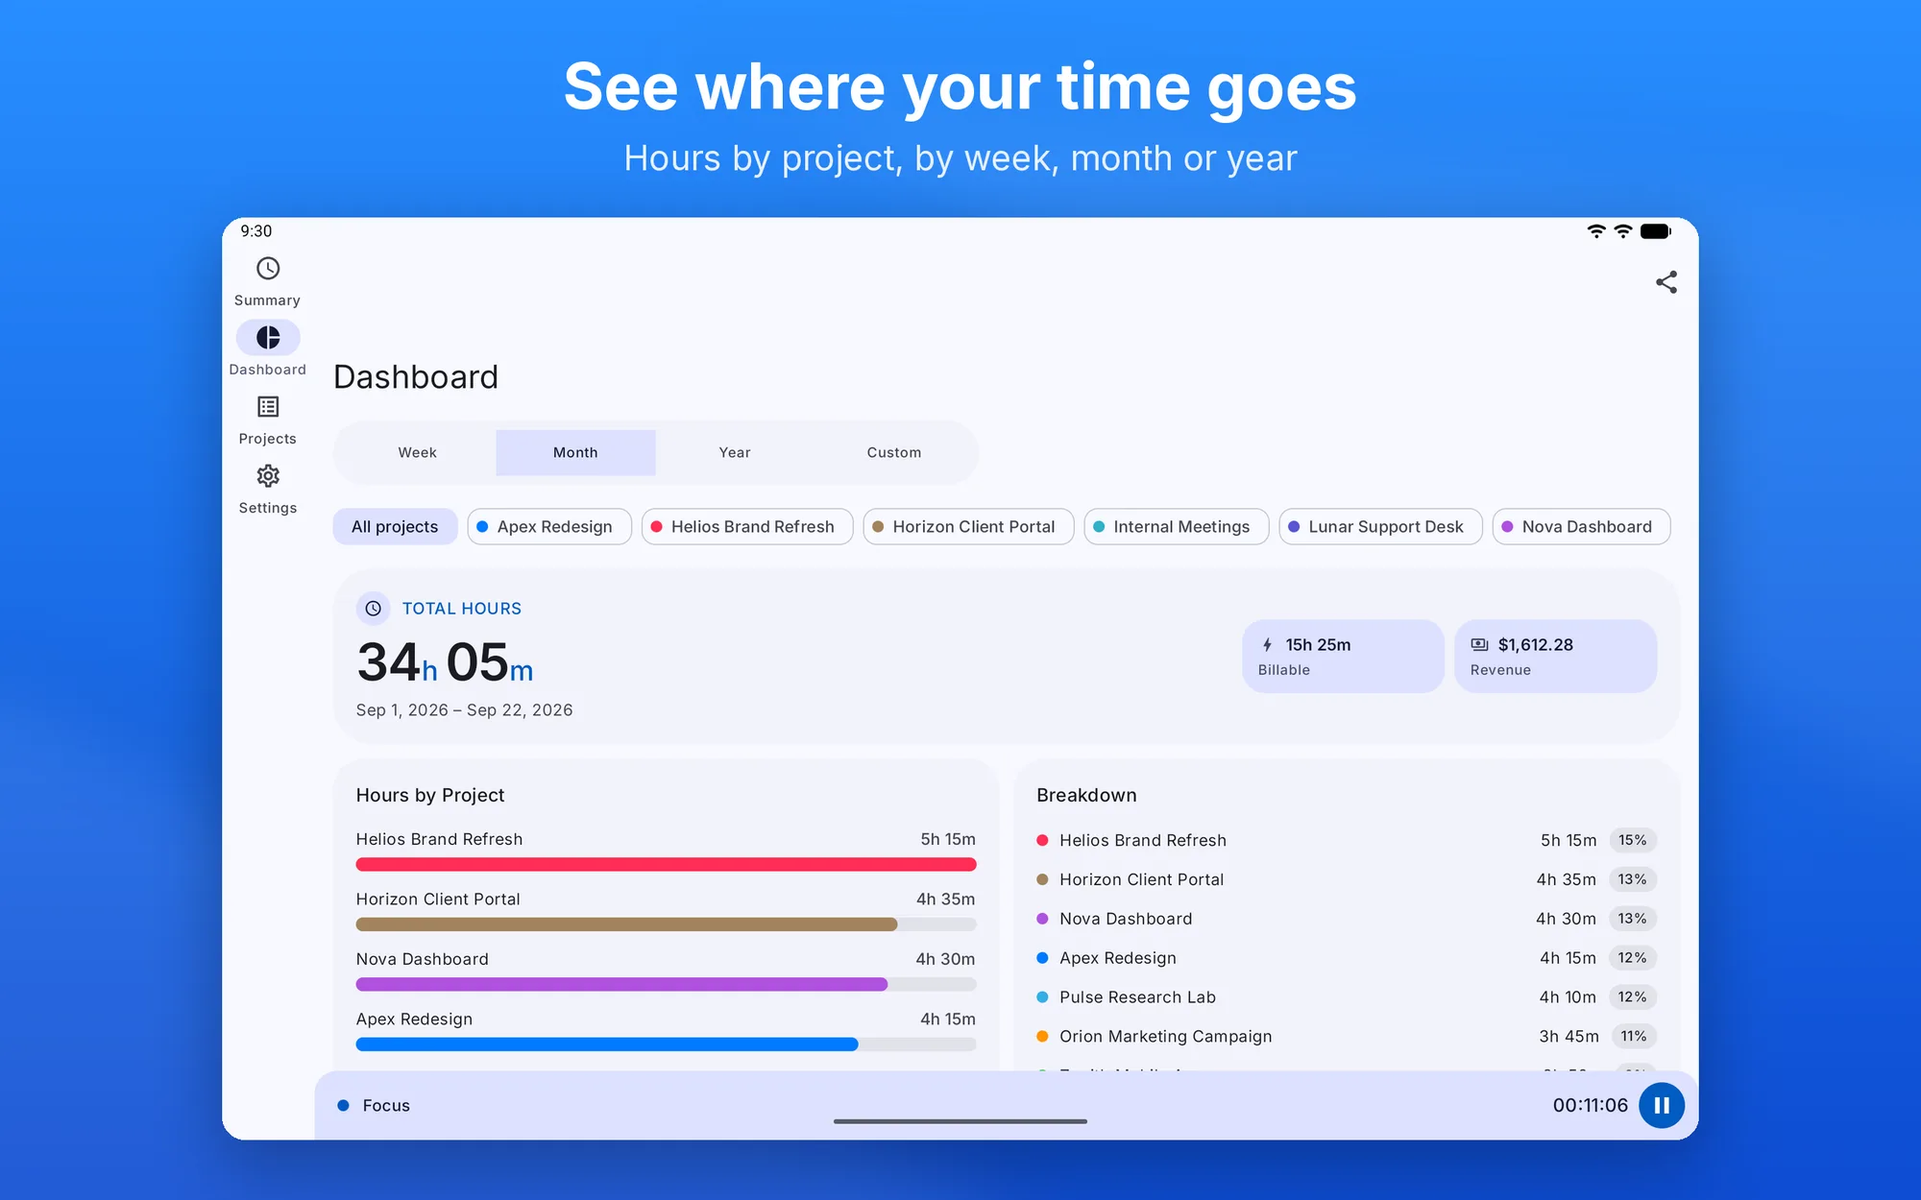
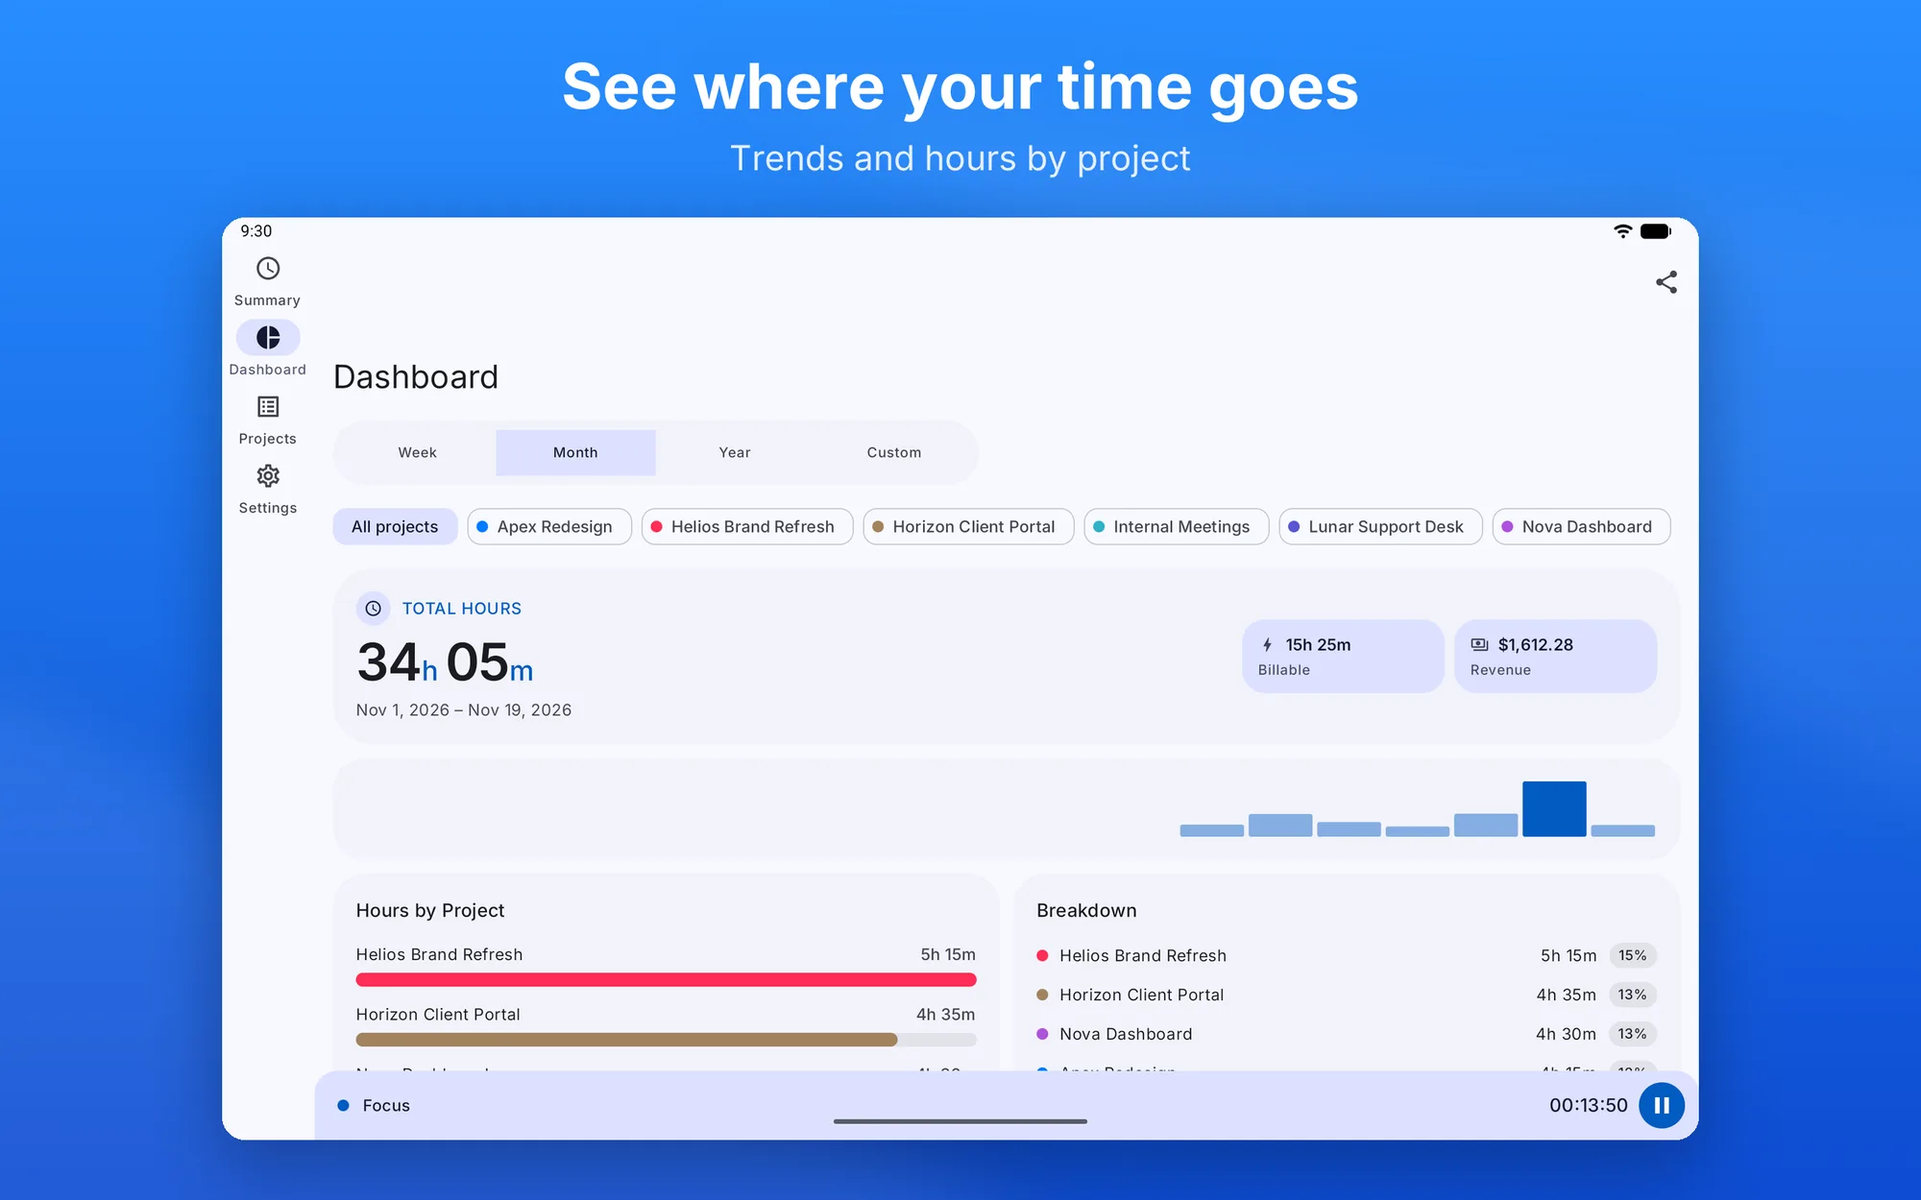
fix(time-tracker): funzioni della 1.3.0 anche su Android 2.1.0
Le funzioni segnate come solo iOS sono anche nella 2.1.0 per Android:
tolte le diciture e le righe Sì/No del confronto. Unica differenza
rimasta, la durata del ciclo del Pomodoro a scelta su Android (da 15 a
90 minuti). Nuovi screenshot Android per telefono e tablet e didascalie
aggiornate.

diff --git a/src/data/docs/time-tracker/timer-pomodoro-e-attivita.md b/src/data/docs/time-tracker/timer-pomodoro-e-attivita.md
@@ -14,8 +14,8 @@ Il pannello **Pomodoro** di Time Tracker è un cronometro per le sessioni di lav
 - **Avvio, pausa e stop**: avvia il cronometro, mettilo in pausa quando serve e fermalo a fine sessione.
 - **Ancorato all'orologio di sistema**: il tempo trascorso non dipende da un conteggio in memoria ma dall'istante di avvio salvato, quindi resta corretto anche se l'app viene sospesa o chiusa.
 - **Salvataggio come attività**: quando fermi il timer, la sessione viene registrata come attività del progetto scelto, con il nome dell'attività come titolo. Le sessioni sotto il minuto non vengono salvate.
-- **Anello del ciclo** (iOS): un anello nel colore del progetto si riempie verso la fine di ogni ciclo da 25 minuti, e sotto il tempo compare il ciclo in corso con quanto manca (es. *Pomodoro 1 · mancano 06:31*). Il timer resta un cronometro: registra tutto il tempo trascorso, i cicli servono solo da traguardo.
-- **Annulla** (iOS): dopo lo stop il pannello mostra *Salvata in* e il nome del progetto, con il pulsante **Annulla**, che elimina l'attività appena salvata.
+- **Anello del ciclo**: un anello nel colore del progetto si riempie verso la fine di ogni ciclo, e sotto il tempo compare il ciclo in corso con quanto manca (es. *Pomodoro 1 · mancano 06:31*). Il timer resta un cronometro: registra tutto il tempo trascorso, i cicli servono solo da traguardo. Il ciclo dura 25 minuti; su Android puoi cambiarlo nelle Impostazioni, alla voce **Durata del Pomodoro**: 15, 20, 25, 30, 45, 50, 60 o 90 minuti.
+- **Annulla**: dopo lo stop il pannello mostra *Salvata in* e il nome del progetto, con il pulsante **Annulla**, che elimina l'attività appena salvata.
 
 ---
 
@@ -36,22 +36,22 @@ Per le ore registrate a posteriori apri l'editor dell'attività e indica:
 - **titolo**, **progetto** e **note**;
 - la **data** e l'**orario di inizio e fine**, oppure attiva il **totale giornaliero** e scrivi direttamente la durata.
 
-Su iOS la nuova attività parte dal progetto dell'ultima attività registrata, se è ancora attivo; altrimenti dal primo progetto attivo.
+La nuova attività parte dal progetto dell'ultima attività registrata, se è ancora attivo; altrimenti dal primo progetto attivo.
 
 Su Android, in cima al riepilogo c'è anche un'**aggiunta rapida** con solo titolo e progetto.
 
 ---
 
-## Riprendere e duplicare un'attività (iOS)
+## Riprendere e duplicare un'attività
 
 Nell'elenco **Attività**:
-- scorrendo una riga verso destra compaiono **Riprendi** e **Modifica**; con uno scorrimento completo parte subito **Riprendi**, che avvia il timer con titolo e progetto dell'attività e apre il pannello Pomodoro. Se un timer è già in corso, Riprendi non c'è;
+- scorrendo una riga verso destra compaiono **Riprendi** e **Modifica**; con uno scorrimento completo parte subito **Riprendi**, che avvia il timer con titolo e progetto dell'attività e apre il pannello Pomodoro. Se un timer è già in corso, Riprendi non c'è (su Android lo scorrimento apre allora la modifica);
 - tenendo premuta una riga si apre un menu con **Modifica**, **Riprendi**, **Duplica su oggi** ed **Elimina**. *Duplica su oggi* crea una copia con lo stesso orario e la stessa durata sulla data di oggi;
-- scorrendo verso sinistra c'è **Elimina**.
+- scorrendo verso sinistra c'è **Elimina**; su Android l'eliminazione si annulla dalla barra in basso.
 
 ---
 
-## Ricerca e calendario attività (iOS)
+## Ricerca e calendario attività
 
 - **Ricerca**: il campo *Cerca tra le voci* cerca il testo in titolo, note e nome del progetto. Mentre cerchi, l'app propone i progetti attivi come filtri: sceglierne uno o più mostra solo le loro attività.
 - **Calendario attività**: in cima all'elenco, un anno di lavoro in una griglia con un quadrato per giorno, più scuro quando le ore sono di più. Toccando un giorno compaiono la data, le ore e il numero di attività; **Mostra** lascia nell'elenco solo quel giorno, e **Mostra tutti i giorni** toglie il filtro.

diff --git a/src/data/en/docs/time-tracker/pomodoro-timer-and-activities.md b/src/data/en/docs/time-tracker/pomodoro-timer-and-activities.md
@@ -14,8 +14,8 @@ Time Tracker's **Pomodoro** panel is a stopwatch for focused work sessions:
 - **Start, pause and stop**: start the stopwatch, pause it when needed and stop it when the session ends.
 - **Anchored to the system clock**: elapsed time doesn't depend on an in-memory count but on the saved start time, so it stays correct even if the app is suspended or closed.
 - **Saved as an activity**: when you stop the timer, the session is logged as an activity on the chosen project, with the activity name as its title. Sessions shorter than a minute aren't saved.
-- **Cycle ring** (iOS): a ring in the project's color fills up toward the end of each 25-minute cycle, and below the time you see the current cycle and how long is left (e.g. *Pomodoro 1 · 06:31 left*). The timer is still a stopwatch: it logs all the elapsed time, and the cycles are only a goal to aim for.
-- **Undo** (iOS): after you stop, the panel shows *Saved to* and the project name, with an **Undo** button that deletes the activity that was just saved.
+- **Cycle ring**: a ring in the project's color fills up toward the end of each cycle, and below the time you see the current cycle and how long is left (e.g. *Pomodoro 1 · 06:31 left*). The timer is still a stopwatch: it logs all the elapsed time, and the cycles are only a goal to aim for. A cycle lasts 25 minutes; on Android you can change it in Settings under **Pomodoro length**: 15, 20, 25, 30, 45, 50, 60 or 90 minutes.
+- **Undo**: after you stop, the panel shows *Saved to* and the project name, with an **Undo** button that deletes the activity that was just saved.
 
 ---
 
@@ -36,22 +36,22 @@ For hours logged after the fact, open the activity editor and enter:
 - **title**, **project** and **notes**;
 - the **date** and the **start and end time**, or turn on **daily total** and type the duration directly.
 
-On iOS a new activity starts on the project of the last activity you logged, if it's still active; otherwise on the first active project.
+A new activity starts on the project of the last activity you logged, if it's still active; otherwise on the first active project.
 
 On Android there's also a **quick add** at the top of the summary, with just title and project.
 
 ---
 
-## Resuming and Duplicating an Activity (iOS)
+## Resuming and Duplicating an Activity
 
 In the **Time Entries** list:
-- swiping a row to the right shows **Resume** and **Edit**; a full swipe triggers **Resume**, which starts the timer with the activity's title and project and opens the Pomodoro panel. If a timer is already running, Resume isn't offered;
+- swiping a row to the right shows **Resume** and **Edit**; a full swipe triggers **Resume**, which starts the timer with the activity's title and project and opens the Pomodoro panel. If a timer is already running, Resume isn't offered (on Android the swipe then opens the editor);
 - touching and holding a row opens a menu with **Edit**, **Resume**, **Duplicate to Today** and **Delete**. *Duplicate to Today* creates a copy with the same time of day and duration on today's date;
-- swiping to the left shows **Delete**.
+- swiping to the left shows **Delete**; on Android you can undo the deletion from the bar at the bottom.
 
 ---
 
-## Search and Activity Calendar (iOS)
+## Search and Activity Calendar
 
 - **Search**: the *Search entries* field looks for the text in the title, notes and project name. While you search, the app suggests active projects as filters: picking one or more shows only their activities.
 - **Activity calendar**: at the top of the list, a year of work in a grid with one square per day, darker when there are more hours. Tapping a day shows the date, the hours and the number of activities; **Show** keeps only that day in the list, and **Show all days** removes the filter.

diff --git a/src/data/projects/time-tracker.md b/src/data/projects/time-tracker.md
@@ -23,10 +23,10 @@ Time Tracker nasce per chi ha bisogno di sapere esattamente dove va il proprio t
 
 - **Attività in pochi secondi** — con orario di inizio e fine oppure come totale giornaliero, con i titoli già usati proposti come suggerimenti
 - **Progetti** — colore, note, date di inizio e fine, tariffa oraria e IVA; i progetti conclusi si archiviano
-- **Timer Pomodoro** — un cronometro ancorato all'orologio di sistema, sempre visibile in una barra dentro l'app e, fuori, nella Dynamic Island (iOS) o in una notifica con Pausa, Riprendi e Stop (Android); fermandolo, la sessione diventa un'attività. Su iOS un anello nel colore del progetto si riempie verso la fine di ogni ciclo da 25 minuti, e la sessione appena salvata si può annullare
-- **Riepilogo** — attività raggruppate per giorno, con ricerca su titolo, note e progetto. Su iOS la ricerca filtra anche per uno o più progetti, uno scorrimento su un'attività la riprende con il timer, **Duplica su oggi** la copia sulla data di oggi e le nuove attività partono dall'ultimo progetto usato
-- **Calendario attività** (solo iOS) — un anno di lavoro in una griglia; tocchi un giorno per vederne le ore e mostrare solo quel giorno nell'elenco
-- **Dashboard** — ore per settimana, mese, anno o un intervallo a scelta, ore per progetto, quota fatturabile e ricavi; su iOS anche il confronto con il periodo precedente e il grafico dell'andamento
+- **Timer Pomodoro** — un cronometro ancorato all'orologio di sistema, sempre visibile in una barra dentro l'app e, fuori, nella Dynamic Island (iOS) o in una notifica con Pausa, Riprendi e Stop (Android); fermandolo, la sessione diventa un'attività. Un anello nel colore del progetto si riempie verso la fine di ogni ciclo, e la sessione appena salvata si può annullare. Il ciclo dura 25 minuti; su Android si può scegliere da 15 a 90
+- **Riepilogo** — attività raggruppate per giorno, con ricerca su titolo, note e progetto. La ricerca filtra anche per uno o più progetti, uno scorrimento su un'attività la riprende con il timer, **Duplica su oggi** la copia sulla data di oggi e le nuove attività partono dall'ultimo progetto usato
+- **Calendario attività** — un anno di lavoro in una griglia; tocchi un giorno per vederne le ore e mostrare solo quel giorno nell'elenco
+- **Dashboard** — ore per settimana, mese, anno o un intervallo a scelta, ore per progetto, quota fatturabile e ricavi; con il confronto con il periodo precedente e il grafico dell'andamento
 - **Report PDF e CSV** — da inviare ai clienti o da aprire in un foglio di calcolo
 - **Backup JSON** — esporta e importa i dati quando vuoi, anche tra iPhone e Android; su iOS c'è anche la sincronizzazione iCloud facoltativa
 - **A modo tuo** — tema chiaro, scuro o di sistema, colore d'accento a scelta, sette lingue

diff --git a/src/data/en/projects/time-tracker.md b/src/data/en/projects/time-tracker.md
@@ -23,10 +23,10 @@ Time Tracker is for anyone who needs to know exactly where their time goes, and 
 
 - **Activities in seconds** — with a start and end time or as a daily total, with titles you've used before offered as suggestions
 - **Projects** — color, notes, start and end dates, hourly rate and VAT; finished projects can be archived
-- **Pomodoro timer** — a stopwatch anchored to the system clock, always visible in a bar inside the app and, outside it, in the Dynamic Island (iOS) or a notification with Pause, Resume and Stop (Android); when you stop it, the session becomes an activity. On iOS a ring in the project's color fills up toward the end of each 25-minute cycle, and you can undo a session right after it's saved
-- **Summary** — activities grouped by day, with search across title, notes and project. On iOS search also filters by one or more projects, a swipe on an activity resumes it with the timer, **Duplicate to Today** copies it to today's date, and new activities start on the last project you used
-- **Activity calendar** (iOS only) — a year of work in one grid; tap a day to see its hours and show only that day in the list
-- **Dashboard** — hours by week, month, year or a custom range, hours per project, billable share and revenue; on iOS also a comparison with the previous period and a trend chart
+- **Pomodoro timer** — a stopwatch anchored to the system clock, always visible in a bar inside the app and, outside it, in the Dynamic Island (iOS) or a notification with Pause, Resume and Stop (Android); when you stop it, the session becomes an activity. A ring in the project's color fills up toward the end of each cycle, and you can undo a session right after it's saved. A cycle lasts 25 minutes; on Android you can choose from 15 to 90
+- **Summary** — activities grouped by day, with search across title, notes and project. Search also filters by one or more projects, a swipe on an activity resumes it with the timer, **Duplicate to Today** copies it to today's date, and new activities start on the last project you used
+- **Activity calendar** — a year of work in one grid; tap a day to see its hours and show only that day in the list
+- **Dashboard** — hours by week, month, year or a custom range, hours per project, billable share and revenue; with a comparison with the previous period and a trend chart
 - **PDF and CSV reports** — to send to clients or open in a spreadsheet
 - **JSON backup** — export and import your data whenever you like, even between iPhone and Android; on iOS there's also optional iCloud sync
 - **Your way** — light, dark or system theme, a choice of accent color, seven languages

diff --git a/src/data/docs/time-tracker/confronto-ios-android.md b/src/data/docs/time-tracker/confronto-ios-android.md
@@ -8,7 +8,7 @@ section: "Piattaforme"
 
 ## Due versioni native
 
-Le due versioni di Time Tracker hanno lo stesso calcolo di ore, tariffe e IVA e lo stesso formato di backup, e ciascuna segue da vicino le convenzioni della propria piattaforma. Le funzioni arrivate su iOS con la versione 1.3.0 (anello del Pomodoro, Riprendi e Duplica su oggi, calendario attività, confronto e andamento nella Dashboard) per ora non sono su Android.
+Le due versioni di Time Tracker hanno lo stesso calcolo di ore, tariffe e IVA e lo stesso formato di backup, e ciascuna segue da vicino le convenzioni della propria piattaforma. Le funzioni della versione 1.3.0 per iOS (anello del Pomodoro, Riprendi e Duplica su oggi, calendario attività, confronto e andamento nella Dashboard) sono anche nella 2.1.0 per Android, che in più permette di scegliere la durata del ciclo del Pomodoro.
 
 ---
 
@@ -26,11 +26,7 @@ Le due versioni di Time Tracker hanno lo stesso calcolo di ore, tariffe e IVA e 
 | **Sincronizzazione** | iCloud (CloudKit, database privato) | Nessuna, solo backup su file |
 | **Schermi grandi** | Barra laterale comprimibile su iPad (`.sidebarAdaptable`) | Barra laterale (*navigation rail*) e riquadri affiancati |
 | **Formato di backup** | JSON comune | JSON comune |
-| **Anello del ciclo e Annulla nel Pomodoro** | Sì | No |
-| **Riprendi e Duplica su oggi** | Sì | No |
-| **Ricerca filtrata per progetto** | Sì | No |
-| **Calendario attività con filtro per giorno** | Sì | No |
-| **Confronto con il periodo precedente e andamento** | Sì | No |
+| **Durata del ciclo Pomodoro** | 25 minuti | A scelta, da 15 a 90 minuti |
 
 ---
 

diff --git a/src/data/en/docs/time-tracker/ios-vs-android-comparison.md b/src/data/en/docs/time-tracker/ios-vs-android-comparison.md
@@ -8,7 +8,7 @@ section: "Platforms"
 
 ## Two Native Versions
 
-Both versions of Time Tracker have the same hours, rate and VAT calculations and the same backup format, and each closely follows its own platform's conventions. The features that came to iOS with version 1.3.0 (the Pomodoro ring, Resume and Duplicate to Today, the activity calendar, the comparison and trend in the Dashboard) aren't on Android yet.
+Both versions of Time Tracker have the same hours, rate and VAT calculations and the same backup format, and each closely follows its own platform's conventions. The features of version 1.3.0 for iOS (the Pomodoro ring, Resume and Duplicate to Today, the activity calendar, the comparison and trend in the Dashboard) are also in version 2.1.0 for Android, which also lets you choose the length of a Pomodoro cycle.
 
 ---
 
@@ -26,11 +26,7 @@ Both versions of Time Tracker have the same hours, rate and VAT calculations and
 | **Sync** | iCloud (CloudKit, private database) | None, file backups only |
 | **Large screens** | Collapsible sidebar on iPad (`.sidebarAdaptable`) | Navigation rail and side-by-side panes |
 | **Backup format** | Shared JSON | Shared JSON |
-| **Pomodoro cycle ring and Undo** | Yes | No |
-| **Resume and Duplicate to Today** | Yes | No |
-| **Search filtered by project** | Yes | No |
-| **Activity calendar with day filter** | Yes | No |
-| **Comparison with the previous period and trend** | Yes | No |
+| **Pomodoro cycle length** | 25 minutes | Your choice, 15 to 90 minutes |
 
 ---
 

diff --git a/src/data/docs/time-tracker/dashboard-fatturazione-ed-export.md b/src/data/docs/time-tracker/dashboard-fatturazione-ed-export.md
@@ -11,7 +11,7 @@ section: "Analisi e Dati"
 La scheda **Dashboard** trasforma le ore registrate in informazioni chiare:
 
 - **Totale in evidenza**: le ore lavorate nel periodo scelto.
-- **Confronto e andamento** (iOS): sotto il totale, la variazione percentuale *rispetto al periodo precedente* (la settimana, il mese o l'anno prima, oppure un intervallo personalizzato della stessa durata subito prima) e un grafico a barre delle ore per giorno, o per mese quando il periodo supera i due mesi. I giorni senza attività restano nel grafico, a zero.
+- **Confronto e andamento**: sotto il totale, la variazione percentuale *rispetto al periodo precedente* (la settimana, il mese o l'anno prima, oppure un intervallo personalizzato della stessa durata subito prima) e un grafico a barre delle ore per giorno, o per mese quando il periodo supera i due mesi. I giorni senza attività restano nel grafico, a zero.
 - **Ore per progetto**: grafici e percentuali che mostrano come si distribuisce il lavoro tra progetti e clienti.
 - **Quota fatturabile**: separa le ore dei progetti con fatturazione attiva da quelle non fatturabili (es. formazione o attività interne).
 - **Ricavi**: per ogni progetto fatturabile, le ore moltiplicate per la tariffa oraria, IVA inclusa.

diff --git a/src/data/en/docs/time-tracker/dashboard-billing-and-exports.md b/src/data/en/docs/time-tracker/dashboard-billing-and-exports.md
@@ -11,7 +11,7 @@ section: "Analytics & Data"
 The **Dashboard** tab turns logged hours into clear information:
 
 - **Headline total**: the hours worked in the chosen period.
-- **Comparison and trend** (iOS): below the total, the percentage change *vs. previous period* (the week, month or year before, or a custom range of the same length right before it) and a bar chart of hours per day, or per month when the period is longer than two months. Days with no activity stay in the chart, at zero.
+- **Comparison and trend**: below the total, the percentage change *vs. previous period* (the week, month or year before, or a custom range of the same length right before it) and a bar chart of hours per day, or per month when the period is longer than two months. Days with no activity stay in the chart, at zero.
 - **Hours per project**: charts and percentages showing how work is spread across projects and clients.
 - **Billable share**: separates the hours of projects with billing turned on from non-billable ones (e.g. training or internal work).
 - **Revenue**: for each billable project, hours multiplied by the hourly rate, VAT included.
